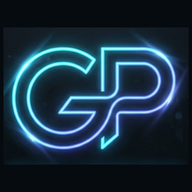
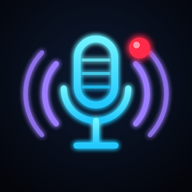
V4.7.2: icona dedicata di OnAir (il marchio GPverse resta nell'app)
Claude-Session: https://claude.ai/code/session_01RbfHwv8ftAxnbmGtqY88g9

diff --git a/index.html b/index.html
@@ -559,7 +559,7 @@ body.tponly.showbar #dockHost>.prompter .pt-bar{display:flex;position:fixed;top:
     <p>Studio di registrazione per il podcast. Usa le cuffie: il microfono deve sentire solo la tua voce, la musica la mixa OnAir.</p>
     <button id="bootBtn" class="btn-big">ACCENDI LO STUDIO</button>
     <div id="bootErr" class="err" hidden></div>
-    <span class="ver" id="bootVer">V4.7.1</span>
+    <span class="ver" id="bootVer">V4.7.2</span>
   </div>
 </div>
 
@@ -567,7 +567,7 @@ body.tponly.showbar #dockHost>.prompter .pt-bar{display:flex;position:fixed;top:
   <header class="top">
     <img class="logo" src="assets/logo.jpg" alt="">
     <div class="brand"><small>GPVERSE</small><b>OnAir</b></div>
-    <button class="ver" id="verBtn" title="Novità di questa versione">V4.7.1</button>
+    <button class="ver" id="verBtn" title="Novità di questa versione">V4.7.2</button>
     <span class="sp"></span>
     <span class="pill click" id="micPill" title="Controllo dispositivi">MIC</span>
     <span class="pill click" id="camPill" title="Controllo dispositivi">CAM</span>
@@ -696,7 +696,7 @@ body.tponly.showbar #dockHost>.prompter .pt-bar{display:flex;position:fixed;top:
   </div>
 
   <div class="keys" id="keysLegend"></div>
-  <div class="foot"><span>GPverse OnAir · <span id="footVer">V4.7.1</span></span><span id="footInfo"></span></div>
+  <div class="foot"><span>GPverse OnAir · <span id="footVer">V4.7.2</span></span><span id="footInfo"></span></div>
 </div>
 
 <!-- Pausa / Re-take -->

diff --git a/onair.js b/onair.js
@@ -1,11 +1,14 @@
 /* GPverse OnAir — studio di registrazione per podcast
+ * Un'app GPverse. Icona dedicata: assets/icon.svg (il marchio GPverse resta nell'app: logo in alto e piè di pagina)
  * Versione: vedi APP.version e CHANGELOG.md (schema V.maior.minor.patch)
  */
 'use strict';
 
-const APP = { name: 'GPverse OnAir', version: '4.7.1' };
+const APP = { name: 'GPverse OnAir', version: '4.7.2' };
 
 const CHANGELOG = [
+  { v: '4.7.2', date: '25/11/2026', title: 'Icona tutta sua', items: [
+    'OnAir ha un\'icona dedicata (microfono al neon con le onde e la spia rossa di registrazione) invece del logo GPverse generico: sul desktop e nella barra si distingue dalle altre app. Il marchio GPverse resta dentro l\'app.' ] },
   { v: '4.7.1', date: '24/11/2026', title: 'Teleprompter staccato che non scorreva', items: [
     'Se il teleprompter era in una finestra staccata e nella regia era stato nascosto col pulsante «Teleprompter», si vedeva ma non scorreva (in nessuna modalità). Ora in una finestra staccata scorre sempre.',
     'Il pulsante «Teleprompter» della regia, quando il teleprompter è staccato, porta in primo piano la sua finestra invece di spegnerlo.' ] },

diff --git a/sw.js b/sw.js
@@ -1,6 +1,6 @@
 /* GPverse OnAir — service worker: funziona anche senza internet.
  * Strategia: prima la rete (così gli aggiornamenti arrivano subito), se manca la rete si usa la copia salvata. */
-const CACHE = 'onair-v4.7.1';
+const CACHE = 'onair-v4.7.2';
 const SHELL = ['./', './index.html', './dock.html', './onair.js', './lib/lame.min.js', './lib/webm-muxer.js', './manifest.webmanifest',
   './assets/logo.jpg', './assets/icon.png', './assets/icon-192.png', './assets/icon-512.png'];
 self.addEventListener('install', (e) => { e.waitUntil(caches.open(CACHE).then(c => c.addAll(SHELL)).then(() => self.skipWaiting())); });

diff --git a/CHANGELOG.md b/CHANGELOG.md
@@ -7,6 +7,9 @@ Schema: **V.maior.minor.patch**
 
 La versione è visibile nell'app (in alto, accanto al logo) e cliccandola si vedono le novità.
 
+## V4.7.2 — 25/11/2026
+- Icona dedicata di OnAir (microfono al neon, onde sonore, spia rossa) al posto del logo GPverse generico; sorgente in assets/icon.svg. Il marchio GPverse resta nell'app.
+
 ## V4.7.1 — 24/11/2026
 - Teleprompter in finestra staccata: scorre sempre, anche se nella regia era stato nascosto col pulsante «Teleprompter» (che ora porta in primo piano la finestra).
 

diff --git a/LEGGIMI.md b/LEGGIMI.md
@@ -1,4 +1,4 @@
-# GPverse OnAir V4.7.1 — Come si usa
+# GPverse OnAir V4.7.2 — Come si usa
 
 ## Avvio
 **Consigliato: avvia sempre con `avvia_onair.sh`.** Se apri `index.html` con doppio clic il browser chiede microfono e webcam a ogni avvio e non lascia scegliere i dispositivi per nome.
